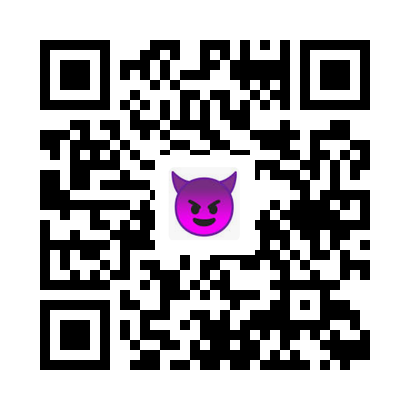
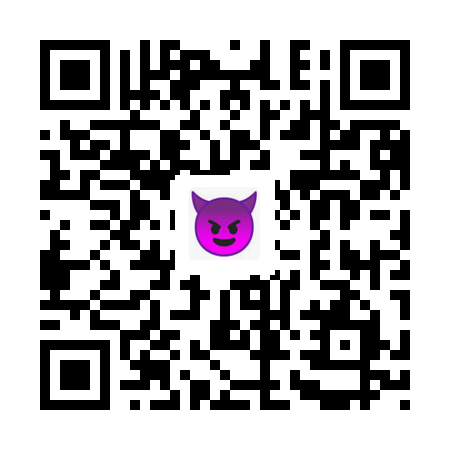
Add files via upload

diff --git a/Gen/QR.py b/Gen/QR.py
@@ -2,7 +2,7 @@ import qrcode
 from PIL import Image
 
 # Configuración
-qr_data = "https://ramiju81.github.io/XCard/"
+qr_data = "https://womo-solucions.github.io/XCard/"
 qr_logo_path = "logo.png"
 qr_output_path = "QR_XD.png"
 html_output_path = "index.html"

diff --git a/README.md b/README.md
@@ -1,0 +1,85 @@
+# 🎯 QR Generator & HTML VCard
+
+![Estado](https://img.shields.io/badge/🚀_En_Desarrollo-blue) 
+![Licencia](https://img.shields.io/badge/Licencia-🔒_Privada-red)
+![Python](https://img.shields.io/badge/Python-3776AB?logo=python&logoColor=white)
+![Pillow](https://img.shields.io/badge/Pillow-ffdd54?logo=python&logoColor=black)
+![QRCode](https://img.shields.io/badge/QRCode-000000?logo=qrcode&logoColor=white)
+![HTML5](https://img.shields.io/badge/HTML5-E34F26?logo=html5&logoColor=white)
+![CSS3](https://img.shields.io/badge/CSS3-1572B6?logo=css3&logoColor=white)
+
+
+## 📋 Descripción del Proyecto
+Este sistema genera **códigos QR personalizados con logo integrado** y crea una **tarjeta de presentación digital (VCard HTML)** lista para compartir.  
+Es ideal para branding corporativo y para compartir información de contacto de forma rápida y visualmente atractiva.
+
+Incluye:
+- Generación de QR con logo centrado
+- Optimización visual con fondo blanco para mayor legibilidad
+- Creación automática de HTML responsive y moderno
+- Enlaces directos a redes, correo y WhatsApp
+- Integración de estilo visual corporativo
+
+## 🛠 Stack Tecnológico
+
+**Backend de Generación QR:**
+- Python
+- `qrcode` (Generación de códigos QR)
+- `Pillow` (Procesamiento de imágenes)
+
+**Frontend (VCard Digital):**
+- HTML5 + CSS3 (Responsive Design)
+- Google Fonts (Rubik)
+- Diseño adaptable a dispositivos móviles
+
+## 🖥 Estructura del Proyecto
+📁 qr_vcard/  
+├── 📂 statics/  
+│   ├── 📂 css/ → `styles.css` (Estilos personalizados)  
+│   ├── 📂 img/ → `logo.png` (Logo corporativo)  
+├── `qr_generator.py` → Script para generar QR y HTML  
+├── `qr_womo.png` → QR generado con logo  
+└── `index.html` → VCard HTML final
+
+## 🔍 Características Clave
+- Generación de códigos QR personalizados con logo integrado
+- HTML VCard corporativa lista para publicar
+- Diseño responsive y minimalista
+- Enlaces directos a portafolio, LinkedIn, correo y WhatsApp
+- Compatible con hosting estático (GitHub Pages, Netlify, etc.)
+- Totalmente personalizable en estilos y contenido
+
+## 🛡 Derechos de Autor y Uso
+© 2025 WoMo Soluciónˢ. Todos los derechos reservados.
+
+**Condiciones de uso:**
+- Estrictamente confidencial
+- Prohibida la reproducción total o parcial
+- Requiere autorización expresa para cualquier implementación
+
+
+## 📬 Contacto Corporativo
+
+**Julián Alberto Ramírez**  
+💻 CTO & Desarrollador Full Stack   
+⚙ Automatización | 🧩 Soluciones software |💡 Innovador Tecnológico | 🔍 Apasionado por IA  
+🏢 **WoMo Soluciónˢ** - Soluciones Tecnológicas Avanzadas  
+
+📧 [Correo corporativo](mailto:womostd@gmail.com)  
+📧 [Correo alternativo](mailto:juliram81@hotmail.com)  
+📱 [WhatsApp](https://wa.me/573180401930)  
+🔗 [LinkedIn Corporativo](https://www.linkedin.com/company/womo-solucions/)  
+   
+---
+
+💡 **Notas Técnicas:**  
+Este sistema está diseñado para:  
+✅ Mejorar la imagen corporativa con QR personalizados    
+✅ Facilitar la conexión directa con clientes    
+✅ Unificar presencia digital con diseño atractivo    
+
+"Conecta tu marca con el mundo de forma rápida, visual y profesional"
+
+📅 **Control de Versiones**  
+![Versión](https://img.shields.io/badge/Versión-1.0.0-blue) ![Última Actualización](https://img.shields.io/badge/Actualizado-Jul_2025-green)
+# XCard
